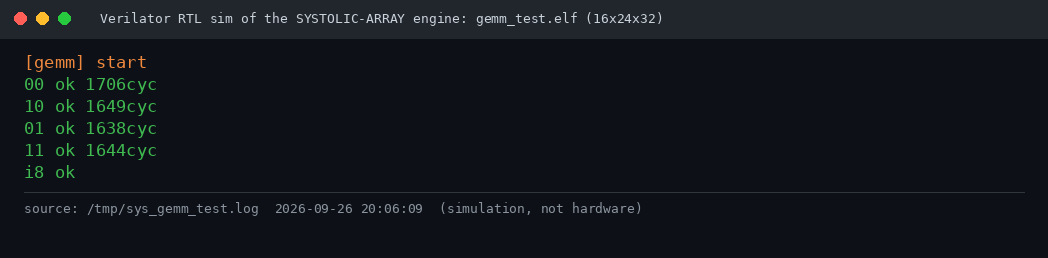
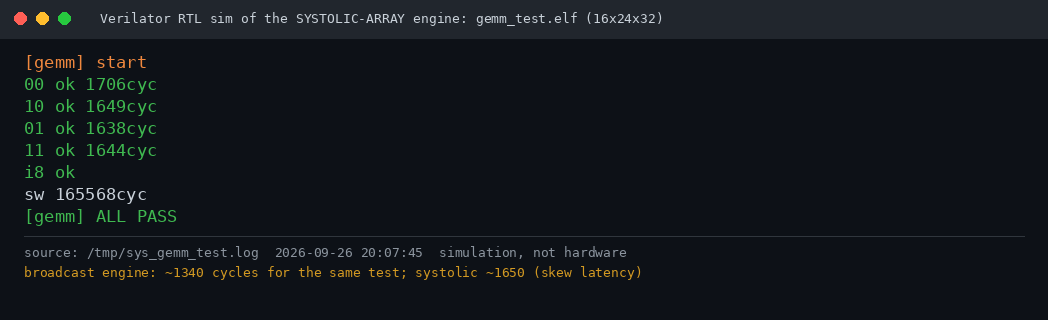
Systolic engine: bitstream builds with timing met, passes all board tests
RocketArty100TSystolicConfig: WNS +0.053 / WHS +0.053 ns, 0 failing endpoints.
On the board: engine self-test, tiled GEMM, 4,121 GEMM + 4,206 LLM-forward stress
iterations with 0 mismatches, and the serial chat with on-chip /train (loss 6.22 -> 0.01
in 8 epochs) all work. ~10% slower than the broadcast engine (skew latency); README says why.
Also: chat epoch-time print unit fix, chat_terminal.py client, real-board screen renders.

Changed region(s): [[0.0, 0.186, 0.9771, 0.8682], [0.0, 0.031, 0.6412, 0.093]]

diff --git a/software/accel/tools/chat_terminal.py b/software/accel/tools/chat_terminal.py
@@ -1,0 +1,40 @@
+#!/usr/bin/env python3
+"""Talk to the chip over the FT232R serial console.
+  interactive:  python3 chat_terminal.py          (Ctrl-C to quit; type at the '>' prompt)
+  one-shot:     python3 chat_terminal.py --once "prompt or /command"   (prints the reply, returns at the next '> ')
+The chip echoes what you type and prints its reply; it computes slowly (~1.5 tokens/s), so replies stream in."""
+import os, sys, glob, time, select, termios, tty, subprocess
+dev = os.path.realpath(glob.glob('/dev/serial/by-id/*FT232R*')[0])
+subprocess.run(['stty', '-F', dev, '115200', 'cs8', '-cstopb', '-parenb', 'raw', '-echo', 'clocal'], check=True)
+fd = os.open(dev, os.O_RDWR | os.O_NOCTTY | os.O_NONBLOCK)
+def drain(t=0.3):
+    out = b''; end = time.time() + t
+    while time.time() < end:
+        r, _, _ = select.select([fd], [], [], 0.05)
+        if r:
+            try: out += os.read(fd, 4096); end = time.time() + t
+            except BlockingIOError: pass
+    return out
+def send(s):
+    for ch in s: os.write(fd, ch.encode()); time.sleep(0.012)
+    os.write(fd, b'\r')
+if len(sys.argv) > 2 and sys.argv[1] == '--once':
+    drain(0.3); send(sys.argv[2]); buf = b''; t0 = time.time()
+    while time.time() - t0 < 900:
+        buf += drain(0.5)
+        if buf.rstrip().endswith(b'>') and b'\n' in buf and len(buf) > len(sys.argv[2]) + 2: break
+    sys.stdout.write(buf.decode('latin1').replace('\r', '')); sys.exit(0)
+old = termios.tcgetattr(sys.stdin); tty.setcbreak(sys.stdin.fileno())
+try:
+    os.write(fd, b'\r')
+    while True:
+        r, _, _ = select.select([fd, sys.stdin], [], [])
+        if fd in r:
+            try: sys.stdout.write(os.read(fd, 4096).decode('latin1')); sys.stdout.flush()
+            except BlockingIOError: pass
+        if sys.stdin in r:
+            ch = os.read(sys.stdin.fileno(), 1)
+            if ch == b'\x03': break
+            os.write(fd, ch)
+finally:
+    termios.tcsetattr(sys.stdin, termios.TCSADRAIN, old)

diff --git a/software/accel/README.md b/software/accel/README.md
@@ -88,3 +88,15 @@ Same RoCC ISA (software unchanged); only the multiply stage is replaced by an ou
 neighbour-to-neighbour data flow and skewed injection (fan-out 1 instead of 8). Configs: `RocketSystolicAccelSimConfig`,
 `RocketArty100TSystolicConfig`. RTL simulation: `accel_test` ALL PASS (117 vs 104 cycles per tile: the skew adds ~12 cycles of
 latency), `gemm_test` all four transpose modes ok. Hardware status: see the bottom of this file.
+
+### Systolic engine: hardware results (2026-09-26)
+Bitstream `RocketArty100TSystolicConfig` built with Vivado: **all timing constraints met** (setup WNS +0.053 ns, hold WHS +0.053 ns,
+0 failing endpoints; the older broadcast-engine bitstream had a -0.020 ns hold violation in the debug module). On the board:
+* engine self-test ALL PASS (117 cycles per load+multiply+store tile vs 104 for the broadcast engine)
+* tiled GEMM test ALL PASS (all four transpose modes + int8 output)
+* stress: 4,121 GEMM iterations and 4,206 full 260K-LLM forward passes in 90 s, 0 mismatches (bit-identical to software)
+* chat: 15M model at 1.4-1.5 tok/s (broadcast engine: 1.5-1.7 tok/s); `/train` LoRA works (loss 6.22 -> 0.0100 in 8 epochs, 26.9 s/epoch);
+  the tuned model completes "The robot named" with "Arty lived on a tiny green board."
+Honest takeaway: the systolic array is functionally equivalent and cleaner for timing, but ~10% SLOWER here, because each tile pays
+an extra ~12 cycles of skew latency while memory traffic (not the multiplier layout) is the bottleneck. Its advantage is that it scales
+(fan-out 1, neighbour-only wires) once loads are overlapped with compute. Raw logs: `results/board_tests_systolic/`, renders: `results/screens/`.
